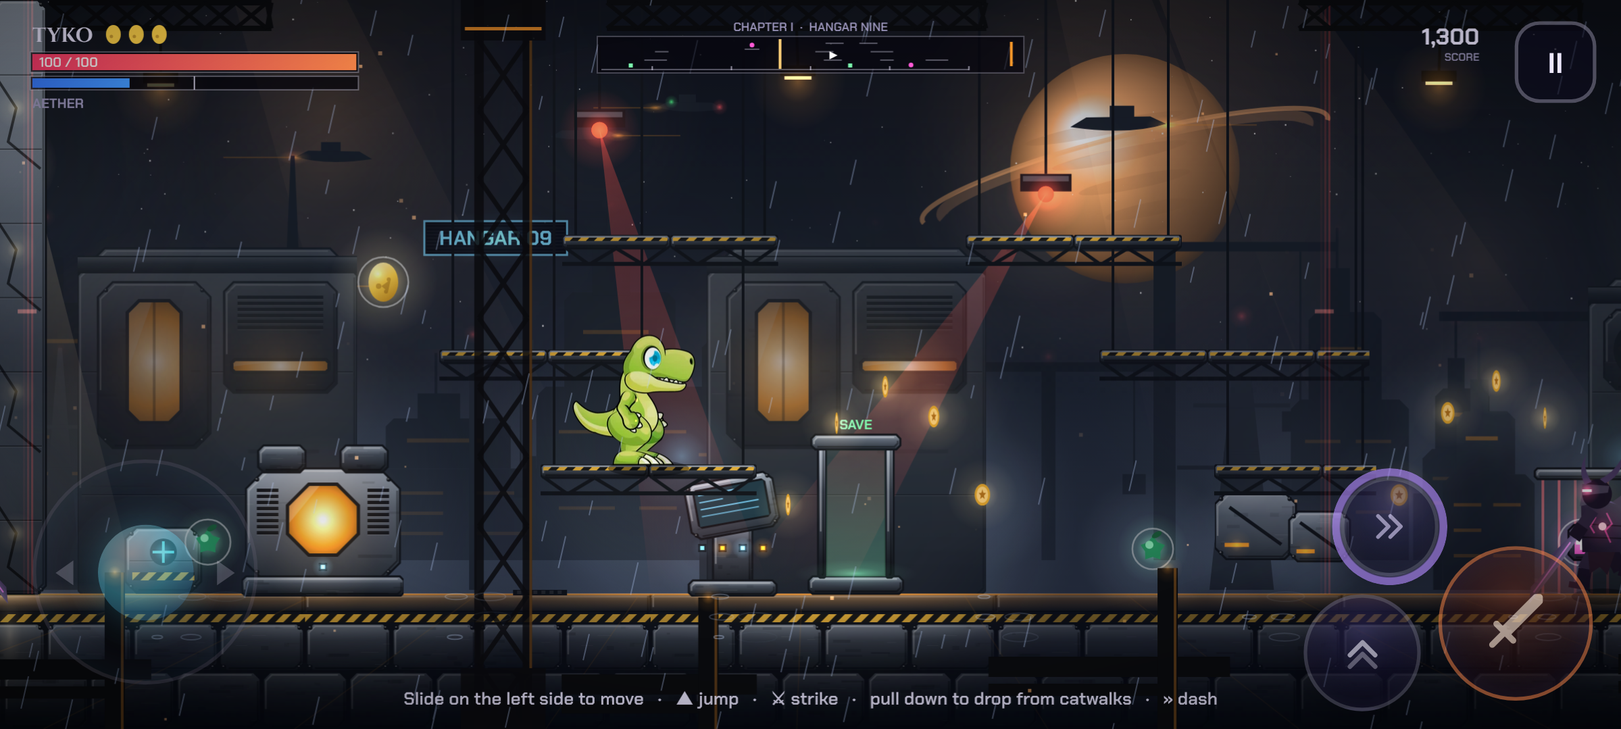
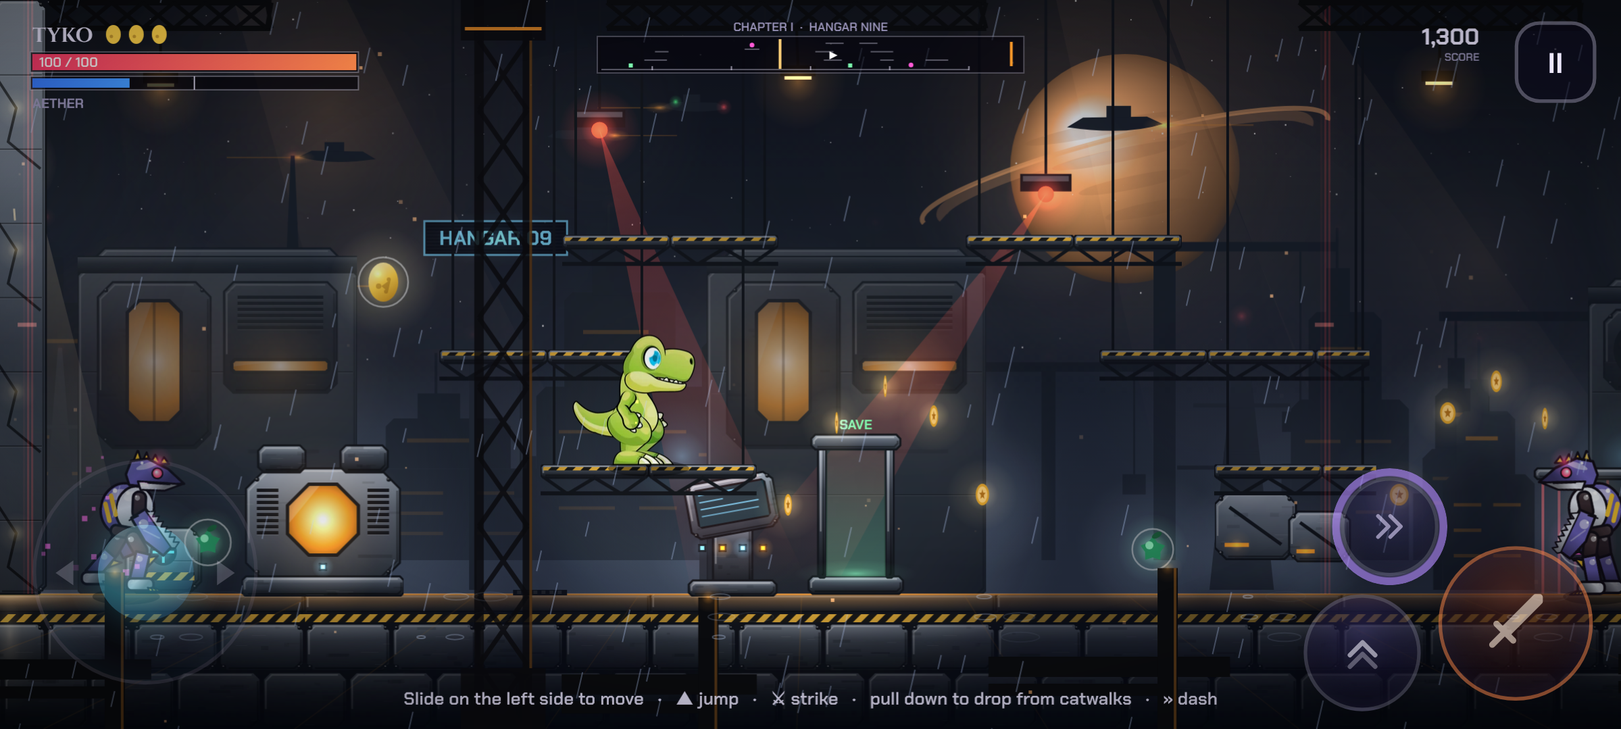
Aetherfall 1.6: bot-tested fixes and balance
- Enemies (incl. jet gunners) can no longer pass through or spawn behind closed gates
- Save stations don't heal during lockdowns; Continue keeps the right chapter score; pause restart refills lives
- Play again starts a fresh run; shrines can't be jumped over; shards before laser gates
- Player and Malakar kept clear of the touch buttons; gorilla wind-up pose fixed
- Balance from bot runs: tougher staggered Robo-Hounds, gentler early drones, Ch III-V waves reworked,
  Iron Warden ends Ch IV, Malakar 3600 HP with faster attacks, lower contact damage

Claude-Session: https://claude.ai/code/session_01X31XAwuRKUuyJhRdzeez9s

diff --git a/app/src/main/assets/index.html b/app/src/main/assets/index.html
@@ -170,13 +170,13 @@ const LV=[
  {name:'The Iron Armory',ch:'Chapter II',theme:'armory',len:7800,sky:['#0f1512','#212c26','#43574b'],planet:'#ffd08a',far:'#1c2620',mid:'#26332b',gnd:'#141b17',glow:'#ff8a3a',
   waves:[['g','d','d'],['h','h','b'],['d','d','g','g'],['b','g','d','g'],['b','b','d','d']]},
  {name:'Orbital Dock Aeris',ch:'Chapter III',theme:'station',len:8400,sky:['#0c1222','#203256','#5a78a6'],planet:'#cfeaff',far:'#2a3856',mid:'#354564',gnd:'#262c38',glow:'#ff9a2a',
-  waves:[['d','d','g'],['b','d','d'],['g','h','g','d','d'],['b','b','d'],['B','d','d']]},
+  waves:[['d','g','g'],['b','d','g'],['g','h','h','d'],['b','b','d'],['B','g','d']]},
  {name:'The Amber Foundry',ch:'Chapter IV',theme:'cargo',len:8400,sky:['#18120a','#3a2a16','#86643a'],planet:'#ffd27a',far:'#2a2013',mid:'#382a17',gnd:'#1c160e',glow:'#ffb347',
-  waves:[['c','g','g'],['b','c','d'],['g','g','c','c'],['b','b','c','d'],['c','c','h','h','b']]},
+  waves:[['c','g','g'],['b','c','d'],['g','h','h','c','c'],['b','b','c','d'],['c','c','h','h','B']]},
  {name:'Gates of the Null Citadel',ch:'Chapter V',theme:'citadel',len:8800,sky:['#07050f','#1c1238','#4e2f7c'],planet:'#c9a8ff',far:'#160c30',mid:'#201240',gnd:'#0c0718',glow:'#b48cff',
-  waves:[['c','c','d','d'],['b','b','h','h','c'],['d','d','d','c','c'],['b','b','b','c'],['B','c','c']]},
+  waves:[['c','c','d','d'],['b','h','h','h','c'],['d','d','d','c','c'],['b','b','b','c'],['B','c','c']]},
  {name:'Throne of the Rift',ch:'Chapter VI',theme:'core',len:7200,sky:['#060406','#1a0a0e','#4a140e'],planet:'#ff4a2a',far:'#140b0c',mid:'#1e1113',gnd:'#0d0909',glow:'#ff4a2a',
-  waves:[['c','b','d'],['h','h','c','c','b'],['B','d','d']],boss:true}
+  waves:[['c','b','d'],['h','h','c','c','b'],['B','h','h','d']],boss:true}
 ];
 LV.forEach(L=>{const n=L.waves.length,end=L.boss?L.len-2200:L.len-900;L.trig=L.waves.map((_,i)=>Math.round(900+(end-900)*i/Math.max(1,n-1)))});
 
@@ -227,11 +227,13 @@ const ETYPES={
  d:{w:70,h:70,hp:28,spd:0,dmg:8,score:150,fly:true},
  c:{w:80,h:160,hp:55,spd:0,dmg:9,score:250},
  B:{w:170,h:320,hp:420,spd:125,dmg:24,score:1500,heavy:true},
- h:{w:130,h:100,hp:30,spd:520,dmg:9,score:120}
+ h:{w:130,h:100,hp:45,spd:520,dmg:12,score:120}
 };
-function spawnEnemy(type,side){const T=ETYPES[type],x=side<0?cam-120:cam+W+120;
+function spawnEnemy(type,side){const T=ETYPES[type];let x=side<0?cam-120:cam+W+120;
+  for(const s of solidRects()){const gx=s.x+s.w/2;if(Math.sign(x-gx)!==Math.sign(pl.x-gx))x=gx+Math.sign(pl.x-gx)*(s.w/2+90)}
   const e={type,x,y:T.fly?520+Math.random()*130:GY,w:T.w,h:T.h,hp:T.hp*dm(),max:T.hp*dm(),vx:0,vy:0,face:-side,state:'walk',t:.6+Math.random()*.8,flash:0,seed:Math.random()*10,heavy:T.heavy,fly:T.fly,hy:0,score:T.score};
-  e.hy=e.y;if(type==='c'){e.x=side<0?cam+260:cam+W-RSAFE-60;e.y=GY;e.fade=1;e.t=1.2}
+  e.hy=e.y;if(type==='c'){e.x=side<0?cam+260:cam+W-RSAFE-60;e.y=GY;e.fade=1;e.t=1.2;
+    for(const g of solidRects()){const gx=g.x+g.w/2;if(Math.sign(e.x-gx)!==Math.sign(pl.x-gx))e.x=pl.x+(pl.x<gx?-1:1)*Math.max(200,Math.min(520,Math.abs(pl.x-gx)-80))}}
   en.push(e);burst(e.x,e.y-e.h/2,'#ff4fd8',14);if(type==='B'){showBanner('Iron Warden','Elite · jump its shockwaves',1.8);S.boom();shake=12}}
 function spawnWave(list){list.forEach((t,i)=>spawnQ.push({t:i*.55,type:t,side:i%2?-1:1}))}
 
@@ -282,7 +284,7 @@ function updPlayer(dt){const p=pl,L=LV[G.lv];
   const sup=geoLand(p,y0);
   if(sup!=null){if(!p.ground){if(p.vy>700){dust(p.x,sup);p.squash=1}p.landT=.15;if(p.slam)slamLand(p,sup)}p.y=sup;p.vy=0;p.ground=true;p.jumps=0}else p.ground=false;
   p.sup=surfaceBelow(p.x,p.y);
-  let mn=60,mx=L.len;if(lock){mn=cam+60;mx=cam+W-(touchy?RSAFE-40:60)}
+  let mn=60,mx=L.len;if(lock){mn=cam+60;mx=cam+W-(touchy?RSAFE+80:60)}
   p.x=Math.max(mn,Math.min(mx,p.x));
   p.run+=Math.abs(p.vx)*dt*.02;
   if(p.atk>0&&p.atk<.18){const reach=p.combo===3?240:180,box={x:p.face>0?p.x-10:p.x-reach+10,y:p.y-190,w:reach,h:190};
@@ -292,25 +294,26 @@ function updPlayer(dt){const p=pl,L=LV[G.lv];
 }
 const allTargets=()=>boss&&!boss.dead&&boss.state!=='enter'?en.concat([boss]):en;
 
+function gateClamp(e){for(const s of solidRects()){if(e.y<=s.y+4&&s.y>0)continue;const l=s.x-e.w/2,r=s.x+s.w+e.w/2;if(e.x>l&&e.x<r){e.x=e.x<s.x+s.w/2?l:r;e.vx=0}}}
 function updEnemy(e,dt){const dx=pl.x-e.x,ad=Math.abs(dx);e.flash-=dt;e.t-=dt;
   if(e.type==='d'){e.face=Math.sign(dx)||1;
     let tx=pl.x-e.face*440+Math.sin(lvT*1.3+e.seed)*90;const ty=e.hy+Math.sin(lvT*2.2+e.seed)*45;
     if(lock){if(pl.x-cam>W-RSAFE-300)tx=pl.x-440;tx=Math.max(cam+140,Math.min(cam+W-RSAFE,tx))}
-    e.vx+=(tx-e.x)*dt*2.4;e.vx*=Math.pow(.15,dt);e.x+=e.vx*dt;e.y+=(ty-e.y)*Math.min(1,dt*2);
-    if(e.t<=0){e.t=Math.max(1.3,2.3-G.lv*.15);const a=Math.atan2(pl.y-80-(e.y-35),pl.x-e.x),v=560+G.lv*30;
+    e.vx+=(tx-e.x)*dt*2.4;e.vx*=Math.pow(.15,dt);e.x+=e.vx*dt;gateClamp(e);e.y+=(ty-e.y)*Math.min(1,dt*2);
+    if(e.t<=0){e.t=Math.max(1.4,2.8-G.lv*.25);const a=Math.atan2(pl.y-80-(e.y-35),pl.x-e.x),v=560+G.lv*30;
       shots.push({x:e.x,y:e.y-35,vx:Math.cos(a)*v,vy:Math.sin(a)*v,r:15,dmg:ETYPES.d.dmg*dm(),life:3.2,col:'#ff8a3a'});S.shot()}
     return}
-  if(e.type==='c'){e.face=Math.sign(dx)||1;e.fade=Math.max(0,(e.fade||0)-dt*2);e.x+=e.vx*dt;e.vx*=Math.pow(.02,dt);
+  if(e.type==='c'){e.face=Math.sign(dx)||1;e.fade=Math.max(0,(e.fade||0)-dt*2);e.x+=e.vx*dt;gateClamp(e);e.vx*=Math.pow(.02,dt);
     if(ad<260&&e.t<.8&&!e.tp){e.tp=.35;burst(e.x,e.y-80,'#b48cff',18)}
-    if(e.tp){e.tp-=dt;if(e.tp<=0){e.tp=0;const side=pl.x-cam>W/2?-1:1;e.x=pl.x+side*(520+Math.random()*200);e.x=Math.max(cam+160,Math.min(cam+W-RSAFE-40,e.x));e.fade=1;e.t=1}}
+    if(e.tp){e.tp-=dt;if(e.tp<=0){e.tp=0;const side=pl.x-cam>W/2?-1:1;e.x=pl.x+side*(520+Math.random()*200);e.x=Math.max(cam+160,Math.min(cam+W-RSAFE-40,e.x));for(const g of solidRects()){const gx=g.x+g.w/2;if(Math.sign(e.x-gx)!==Math.sign(pl.x-gx))e.x=pl.x+(pl.x<gx?-1:1)*Math.min(520,Math.abs(pl.x-gx)-60);}gateClamp(e);e.fade=1;e.t=1}}
     else if(e.t<=0){e.t=Math.max(1.6,2.8-G.lv*.15);const a0=Math.atan2(pl.y-90-(e.y-120),dx);
       for(let k=-1;k<=1;k++){const a=a0+k*.22;shots.push({x:e.x+e.face*40,y:e.y-120,vx:Math.cos(a)*520,vy:Math.sin(a)*520,r:17,dmg:ETYPES.c.dmg*dm(),life:3,col:'#b48cff'})}S.shot()}
     return}
   if(e.type==='h'){if(e.state!=='leap')e.face=Math.sign(dx)||1;
-    if(e.state==='walk'){if(ad>280)e.vx+=(e.face*520*(1+G.lv*.04)-e.vx)*Math.min(1,dt*6);else{e.vx*=Math.pow(.02,dt);if(e.t<=0){e.state='wind';e.t=.34}}}
+    if(e.state==='walk'){if(ad>280)e.vx+=(e.face*520*(1+G.lv*.04)-e.vx)*Math.min(1,dt*6);else{e.vx*=Math.pow(.02,dt);if(e.t<=0){e.state='wind';e.t=.26+Math.random()*.16}}}
     else if(e.state==='wind'){e.vx*=Math.pow(.01,dt);if(e.t<=0){e.state='leap';e.t=.36;e.vx=e.face*1150;e.hitP=false;sfx(420,.18,'sawtooth',.04,300)}}
-    else if(e.state==='leap'){if(!e.hitP&&overlap(ebox(e),pbox())){e.hitP=true;hurtPlayer(ETYPES.h.dmg*dm(),e.face*520)}e.vx*=Math.pow(.25,dt);if(e.t<=0){e.state='walk';e.t=.8+Math.random()*.7}}
-    e.x+=e.vx*dt;if(lock&&touchy){const lim=cam+W-RSAFE+40;if(e.x<lim)e.in=1;if(e.in&&e.x>lim){e.x=lim;if(e.vx>0)e.vx=0}}return}
+    else if(e.state==='leap'){if(!e.hitP&&overlap(ebox(e),pbox())){e.hitP=true;hurtPlayer(ETYPES.h.dmg*dm(),e.face*520)}e.vx*=Math.pow(.25,dt);if(e.t<=0){e.state='walk';e.t=.5+Math.random()*.4}}
+    e.x+=e.vx*dt;gateClamp(e);if(lock&&touchy){const lim=cam+W-RSAFE+40;if(e.x<lim)e.in=1;if(e.in&&e.x>lim){e.x=lim;if(e.vx>0)e.vx=0}}return}
   const T=ETYPES[e.type],hv=e.type==='b'||e.type==='B',range=e.type==='B'?240:hv?200:130;
   if(e.state==='walk'){e.face=Math.sign(dx)||1;
     if(ad>range)e.vx+=(e.face*T.spd*(1+G.lv*.05)-e.vx)*Math.min(1,dt*5);else{e.vx*=Math.pow(.01,dt);if(e.t<=0){e.state='wind';e.t=e.type==='B'?.75:hv?.62:.42}}}
@@ -319,7 +322,7 @@ function updEnemy(e,dt){const dx=pl.x-e.x,ad=Math.abs(dx);e.flash-=dt;e.t-=dt;
   else if(e.state==='swing'){if(!e.hitP){const reach=e.type==='B'?270:hv?230:150,box={x:e.face>0?e.x:e.x-reach,y:e.y-e.h,w:reach,h:e.h};
       if(overlap(box,pbox())){e.hitP=true;hurtPlayer(T.dmg*dm(),e.face*(hv?900:450))}}
     if(e.t<=0){e.state='walk';e.t=(e.type==='B'?1.6:hv?1.3:.8)+Math.random()*.7}}
-  e.x+=e.vx*dt;if(e.state!=='walk')e.vx*=Math.pow(.05,dt);
+  e.x+=e.vx*dt;if(e.state!=='walk')e.vx*=Math.pow(.05,dt);gateClamp(e);
   /* once on screen during a wave, ground enemies stay out of the strip under the touch buttons */
   if(lock&&touchy){const lim=cam+W-RSAFE+40;if(e.x<lim)e.in=1;if(e.in&&e.x>lim){e.x=lim;if(e.vx>0)e.vx=0}}
 }
@@ -329,12 +332,12 @@ function updEnemy(e,dt){const dx=pl.x-e.x,ad=Math.abs(dx);e.flash-=dt;e.t-=dt;
 /* ---------- boss: Malakar, the Void Sovereign ---------- */
 const arenaCam=()=>LV[G.lv].len-W+120;
 function startBoss(){lock=true;S.boom();shake=16;const ac=arenaCam();
-  boss={isBoss:true,x:ac+W-RSAFE-60,y:GY,w:190,h:330,hp:2400,max:2400,face:-1,state:'enter',t:2.6,flash:0,vx:0,phase:1,dy:-800,hov:0,last:'',fire:0,left:0};
+  boss={isBoss:true,x:ac+W-RSAFE-160,y:GY,w:190,h:330,hp:3600,max:3600,face:-1,state:'enter',t:2.6,flash:0,vx:0,phase:1,dy:-800,hov:0,last:'',fire:0,left:0};
   showBanner('Malakar','The Void Sovereign',2.6)}
-function bclamp(x){return Math.max(cam+220,Math.min(cam+W-RSAFE-20,x))}
+function bclamp(x){return Math.max(cam+220,Math.min(cam+W-RSAFE-110,x))}
 function chooseAttack(b){let o=['dash','barrage','rift'];if(b.phase>=2)o.push('beam','beam','summon');
   o=o.filter(a=>a!==b.last);let a=o[Math.floor(Math.random()*o.length)];if(a==='summon'&&en.length>=2)a='barrage';b.last=a;
-  const k=b.phase===3?.7:1;
+  const k=b.phase===3?.6:.85;
   if(a==='dash'){b.state='dashWind';b.t=.7*k;b.dash2=false;S.warn()}
   else if(a==='barrage'){b.state='barrage';b.left=b.phase>1?16:10;b.fire=0;b.spin=Math.random()*6}
   else if(a==='rift'){b.state='cast';b.t=.6;const xs=[pl.x,pl.x-300,pl.x+300];if(b.phase===3)xs.push(pl.x-600,pl.x+600);
@@ -348,18 +351,18 @@ function updBoss(b,dt){b.flash-=dt;b.t-=dt;
   if(b.state==='enter'){b.dy+=(0-b.dy)*Math.min(1,dt*2.2);if(b.t<=0){b.state='idle';b.t=1;b.dy=0}return}
   b.hov=Math.sin(lvT*2)*16;
   if(b.state!=='dash')b.face=Math.sign(pl.x-b.x)||-1;
-  const k=b.phase===3?.7:1;
+  const k=b.phase===3?.6:.85;
   if(b.state==='idle'){let side=b.x>pl.x?1:-1,tx=bclamp(pl.x+side*520);if(Math.abs(tx-pl.x)<320)tx=bclamp(pl.x-side*520);b.x+=(tx-b.x)*Math.min(1,dt*1.3);if(b.t<=0)chooseAttack(b)}
   else if(b.state==='dashWind'){if(Math.random()<.5)burst(b.x,b.y-160,'#ff3d6e',2,300);if(b.t<=0){b.state='dash';b.t=.95;b.vx=b.face*2000;S.boom();b.hitP=false}}
   else if(b.state==='dash'){b.x+=b.vx*dt;parts.push({x:b.x,y:b.y-150+(Math.random()-.5)*200,vx:-b.vx*.1,vy:0,life:.3,max:.3,col:'#ff3d6e',sz:10,g:0});
-    if(!b.hitP&&overlap(ebox(b),pbox())){b.hitP=true;hurtPlayer(22,b.face*1000)}
-    if(b.t<=0||b.x<cam+180||b.x>cam+W-180){b.x=bclamp(b.x);shake=10;
+    if(!b.hitP&&overlap(ebox(b),pbox())){b.hitP=true;hurtPlayer(28,b.face*1000)}
+    if(b.t<=0||b.x<cam+180||b.x>cam+W-RSAFE-110){b.x=bclamp(b.x);shake=10;
       if(b.phase===3&&!b.dash2){b.dash2=true;b.face*=-1;b.state='dashWind';b.t=.35}else{b.state='idle';b.t=1.1*k}}}
   else if(b.state==='barrage'){b.fire-=dt;if(b.fire<=0){b.fire=.1;b.left--;const a0=Math.atan2(pl.y-90-(b.y-260),pl.x-b.x);
-      const a=a0+Math.sin(b.spin+b.left*.7)*.55;shots.push({x:b.x+b.face*60,y:b.y-260+b.hov,vx:Math.cos(a)*620,vy:Math.sin(a)*620,r:20,dmg:11,life:3.5,col:'#ff3d6e'});S.shot();
+      const a=a0+Math.sin(b.spin+b.left*.7)*.55;shots.push({x:b.x+b.face*60,y:b.y-260+b.hov,vx:Math.cos(a)*620,vy:Math.sin(a)*620,r:20,dmg:14,life:3.5,col:'#ff3d6e'});S.shot();
       if(b.left<=0){b.state='idle';b.t=1.2*k}}}
   else if(b.state==='cast'){if(b.t<=0){b.state='idle';b.t=1*k}}
-  if(b.state!=='dash'&&b.state!=='idle'&&overlap(ebox(b),pbox()))hurtPlayer(8,(pl.x<b.x?-1:1)*800);
+  if(b.state!=='dash'&&b.state!=='idle'&&overlap(ebox(b),pbox()))hurtPlayer(5,(pl.x<b.x?-1:1)*800);
 }
 function killBoss(){const b=boss;b.dead=true;bossDone=true;G.score+=10000;shake=30;S.boom();hz=[];shots=shots.filter(s=>s.friend);
   en.forEach(e=>{e.dead=true;burst(e.x,e.y-e.h/2,'#ff4fd8',20)});en=[];spawnQ=[];
@@ -380,8 +383,8 @@ function updShots(dt){const ab=atkBox();
   shots=shots.filter(s=>s.life>0)}
 function updHz(dt){for(const h of hz){if(h.kind==='quake'){updQuake(h,dt);continue}if(h.t>0){h.t-=dt;if(h.t<=0){S.boom();shake=Math.max(shake,h.kind==='beam'?14:9);if(h.kind==='pillar')burst(h.x,GY,'#ff3d6e',24,900)}continue}
     h.act-=dt;if(h.hitP)continue;const pb=pbox();
-    if(h.kind==='pillar'&&Math.abs(pl.x-h.x)<h.w/2+30){h.hitP=true;hurtPlayer(18,(pl.x<h.x?-1:1)*600)}
-    if(h.kind==='beam'&&pb.y<h.y+38&&pb.y+pb.h>h.y-38){h.hitP=true;hurtPlayer(20,(pl.x<cam+W/2?-1:1)*500)}}
+    if(h.kind==='pillar'&&Math.abs(pl.x-h.x)<h.w/2+30){h.hitP=true;hurtPlayer(22,(pl.x<h.x?-1:1)*600)}
+    if(h.kind==='beam'&&pb.y<h.y+38&&pb.y+pb.h>h.y-38){h.hitP=true;hurtPlayer(26,(pl.x<cam+W/2?-1:1)*500)}}
   hz=hz.filter(h=>h.t>0||h.act>0)}
 function updParts(dt){for(const r of rings)r.life-=dt;rings=rings.filter(r=>r.life>0);for(const q of parts){q.life-=dt;q.vy+=q.g*dt;q.x+=q.vx*dt;q.y+=q.vy*dt;q.vx*=Math.pow(.3,dt)}parts=parts.filter(q=>q.life>0);if(parts.length>600)parts.splice(0,parts.length-600);
   for(const t of texts){t.life-=dt;t.y-=90*dt}texts=texts.filter(t=>t.life>0)}
@@ -438,9 +441,9 @@ function levelComplete(){G.state='card';G.score+=Math.round(pl.hp*20);G.best=Mat
 function gameOver(){G.state='over';if(pl){pl.dead=1;pl.deadT=0;pl.vx=0}G.best=Math.max(G.best,G.score);saveProg();padShow(false);clearInput();setTimeout(()=>showCard({ey:'Tyko is down',h:'The Light Fades',
   b:`<p><span class="who">LYRA:</span> "Not yet, little one. Get up. I won't let the dark have you."</p>`,btns:[...(G.ck&&G.ck.lv===G.lv?[['Continue from save station',restoreCk]]:[]),['Retry chapter',()=>{G.score=G.chapterStart;G.lives=3;G.ck=null;startLevel(G.lv)},1],['Title',toTitle,1]]}),900)}
 function victory(){G.state='card';padShow(false);clearInput();G.score+=Math.round(pl.hp*50);unlocked=6;saveProg();G.best=Math.max(G.best,G.score);
-  story(STORY.ending,0,()=>showCard({ey:'The saga is complete',h:'Ithra Is Free',big:0,b:`<p>Final score <b>${G.score.toLocaleString()}</b></p><p>Thank you for playing Aetherfall.</p>`,btns:[['Play again',()=>{G.score=0;G.lives=3;briefing(0)}],['Title',toTitle,1]]}))}
+  story(STORY.ending,0,()=>showCard({ey:'The saga is complete',h:'Ithra Is Free',big:0,b:`<p>Final score <b>${G.score.toLocaleString()}</b></p><p>Thank you for playing Aetherfall.</p>`,btns:[['Play again',()=>{G.score=0;G.lives=3;G.ck=null;META={ab:{},tanks:{}};saveMeta();briefing(0)}],['Title',toTitle,1]]}))}
 function togglePause(){if(G.state!=='play')return;G.paused=!G.paused;clearInput();
-  if(G.paused){padShow(false);showCard({ey:LV[G.lv].ch,h:'Paused',extra:abilitiesHTML(),btns:[['Resume',togglePause],['Restart chapter',()=>{G.score=G.chapterStart;startLevel(G.lv)},1],['Quit to title',toTitle,1]]})}
+  if(G.paused){padShow(false);showCard({ey:LV[G.lv].ch,h:'Paused',extra:abilitiesHTML(),btns:[['Resume',togglePause],['Restart chapter',()=>{G.score=G.chapterStart;G.lives=3;G.ck=null;startLevel(G.lv)},1],['Quit to title',toTitle,1]]})}
   else{hideCard();padShow(true)}}
 document.getElementById('pauseBtn').addEventListener('pointerdown',e=>{e.preventDefault();togglePause()});
 function goFull(){try{const d=document.documentElement;if(touchy&&!document.fullscreenElement&&d.requestFullscreen)d.requestFullscreen().then(()=>{try{screen.orientation.lock('landscape').catch(()=>{})}catch(_){}}).catch(()=>{})}catch(e){}}
@@ -982,7 +985,7 @@ function buildGeo(L,i){const r=rng(L.len*41+i*7+3),g={plats:[],gates:[],cages:[]
   let x=760;while(x<L.len-600){if(clear(x)){const tiers=1+Math.floor(r()*3);let px=x;
       for(let t=0;t<tiers;t++){const w=240+Math.floor(r()*3)*80;g.plats.push({x:Math.round(px),y:GY-190-t*170,w});px+=(r()<.5?-1:1)*(130+r()*70)}}
     x+=700+r()*600}
-  if(i<5){g.shrine={x:sx,ab:ABIL[i].id};g.gates.push(mkGate(ABIL[i].gate,gx))}
+  if(i<5){g.shrine={x:sx,ab:ABIL[i].id};g.gates.push(mkGate(ABIL[i].gate,gx));if(ABIL[i].gate==='laser')picks.push({x:gx-320,y:GY-80,type:'shard',float:1},{x:gx-420,y:GY-80,type:'shard',float:1})}
   TD.forEach((kind,k)=>{const id=i+'-'+k,t=tx[k];if(META.tanks[id])return;
     if(kind==='high'){const py=GY-410;g.plats.push({x:t-130,y:py,w:260,iso:1});picks.push({x:t,y:py-70,type:'tank',id,float:1})}
     else{const c={x:t,kind,hp:kind==='plasma'?3:1,broken:0};g.cages.push(c);picks.push({x:t,y:GY-80,type:'tank',id,float:1,cage:c})}});
@@ -1009,8 +1012,8 @@ function updGeo(dt){const p=pl;hintT-=dt;if(!p||p.dead)return;p.maxX=Math.max(p.
   if(p.dashT>0){const b={x:p.x-80,y:p.y-170,w:160,h:170};for(const g of GEO.gates)if(!g.broken&&g.kind==='crack'&&overlap(b,{x:g.x-g.w/2,y:g.top,w:g.w,h:GY-g.top}))breakGate(g);
     for(const c of GEO.cages)if(!c.broken&&c.kind==='crack'&&Math.abs(c.x-p.x)<110&&p.y>GY-200)breakCage(c)}
   for(const s of shots)if(s.friend&&s.wave){for(const g of GEO.gates)if(!g.broken&&g.kind==='laser'&&Math.abs(s.x-g.x)<s.r+40)breakGate(g);for(const c of GEO.cages)if(!c.broken&&c.kind==='laser'&&Math.abs(s.x-c.x)<s.r+60)breakCage(c)}
-  const sh=GEO.shrine;if(sh&&!hasAb(sh.ab)&&Math.abs(p.x-sh.x)<80&&p.y>GY-200)grantAbility(sh.ab);
-  for(const st of GEO.stations){st.t-=dt;if(st.t<=0&&Math.abs(p.x-st.x)<70&&p.ground&&p.y>GY-4)useStation(st)}}
+  const sh=GEO.shrine;if(sh&&!hasAb(sh.ab)&&Math.abs(p.x-sh.x)<90)grantAbility(sh.ab);
+  for(const st of GEO.stations){st.t-=dt;if(!lock&&st.t<=0&&Math.abs(p.x-st.x)<70&&p.ground&&p.y>GY-4)useStation(st)}}
 function clawGeo(box){for(const g of GEO.gates)if(!g.broken&&g.kind==='crystal'&&overlap(box,{x:g.x-g.w/2,y:0,w:g.w,h:GY})){if(hasAb('plasma')){g.hp--;burst(g.x,box.y+80,'#ff5ad8',10,500);S.hit();if(g.hp<=0)breakGate(g)}else if(hintT<=0){hintT=2.5;ftext(g.x,GY-300,GATEHINT.crystal,'#ffd27a')}}
   for(const c of GEO.cages)if(!c.broken&&c.kind==='plasma'&&overlap(box,{x:c.x-70,y:GY-170,w:140,h:170})){if(hasAb('plasma')){c.hp--;S.hit();burst(c.x,GY-90,'#ff5ad8',8,400);if(c.hp<=0)breakCage(c)}else if(hintT<=0){hintT=2.5;ftext(c.x,GY-230,'Void crystal. Claws bounce off it.','#ffd27a')}}}
 function slamAt(x){for(const g of GEO.gates)if(!g.broken&&g.kind==='blast'&&Math.abs(x-g.plate)<170)breakGate(g);for(const c of GEO.cages)if(!c.broken&&c.kind==='slam'&&Math.abs(x-c.x)<220)breakCage(c)}
@@ -1021,9 +1024,9 @@ function slamLand(p,y){p.slam=0;shake=Math.max(shake,14);S.boom();buzz(35);ring(
 function grantAbility(id){const A=ABIL.find(a=>a.id===id);META.ab[id]=1;saveMeta();hitStop=.45;shake=10;buzz([40,30,80]);
   [523,659,784,1047].forEach((f,i)=>setTimeout(()=>sfx(f,.35,'triangle',.07,0),i*120));
   for(let i=0;i<3;i++)ring(pl.x,pl.y-100,A.col,180+i*90);burst(pl.x,pl.y-100,A.col,40,900);showBanner(A.name+' acquired',A.how,4.2);padAbilities()}
-function useStation(st){st.t=6;const p=pl;p.hp=p.max;p.en=Math.max(p.en,50);G.ck={lv:G.lv,x:st.x,waveI,score:G.score,broken:GEO.gates.map(g=>g.broken),cages:GEO.cages.map(c=>c.broken)};
+function useStation(st){st.t=6;const p=pl;p.hp=p.max;p.en=Math.max(p.en,50);G.ck={lv:G.lv,x:st.x,waveI,score:G.score,cs:G.chapterStart,broken:GEO.gates.map(g=>g.broken),cages:GEO.cages.map(c=>c.broken)};
   sfx(660,.3,'sine',.06,330);setTimeout(()=>sfx(990,.3,'sine',.06,0),150);ring(st.x,GY-110,'#7dffb0',200);showBanner('Progress saved','Health restored',1.6)}
-function restoreCk(){const ck=G.ck;G.lives=3;startLevel(ck.lv);G.score=ck.score;waveI=ck.waveI;pl.x=ck.x+80;pl.maxX=ck.x;
+function restoreCk(){const ck=G.ck;G.lives=3;startLevel(ck.lv);G.score=ck.score;G.chapterStart=ck.cs!=null?ck.cs:G.chapterStart;waveI=ck.waveI;pl.x=ck.x+80;pl.maxX=ck.x;
   GEO.gates.forEach((g,i)=>g.broken=ck.broken[i]||g.broken);GEO.cages.forEach((c,i)=>c.broken=ck.cages[i]||c.broken);
   cam=Math.max(0,Math.min(arenaCam(),pl.x-W*.38));showBanner('Save station',LV[ck.lv].name,1.8)}
 function padAbilities(){const d=document.querySelector('.act.dsh'),s=document.querySelector('.act.sp');if(d)d.hidden=!hasAb('dash');if(s)s.hidden=!hasAb('roar')}
@@ -1196,10 +1199,10 @@ function drawClaw(e){const sc=.74;shadow(e.x,50);X.save();X.translate(e.x,e.y);X
   hitFlash(e,e.x,e.y-110,100);bar(e,e.y-262)}
 function drawGorilla(e){const sc=.72;shadow(e.x,84);X.save();X.translate(e.x,e.y);X.scale(e.face*sc,sc);
   const mv=e.state==='walk'?Math.min(1,Math.abs(e.vx)/120):0,sw=Math.sin(lvT*6+e.seed)*.45*mv,hip=-134+(e.state==='wind'?12:e.state==='swing'?18:0),lean=e.state==='wind'?.05:.32;
-  let ua=.12+sw*.5,fa=.2;if(e.state==='wind'){ua=2.9;fa=.3}else if(e.state==='swing'){ua=-.55;fa=-.45}
+  let ua=.12+sw*.5,fa=.2;if(e.state==='wind'){ua=3.05;fa=.15}else if(e.state==='swing'){ua=-.55;fa=-.45}
   const leg=(a1,a2,d)=>{X.save();X.translate(d?-26:26,hip);X.rotate(a1);rp('go_thigh',0,0,0,d);X.translate(0,52);X.rotate(a2);rp('go_shin',0,0,0,d);X.translate(0,58);X.rotate(-(a1+a2));rp('go_foot',0,0,0,d);X.restore()};
   const arm=(d,u,f)=>{X.save();X.translate(0,hip);X.rotate(lean);X.translate(d?-34:54,-124);X.rotate(u-lean);rp('go_uarm',0,0,0,d);X.translate(0,78);X.rotate(f);rp('go_farm',0,0,0,d);X.restore()};
-  arm(1,e.state==='walk'?.12-sw*.5:ua,fa);leg(-sw,.2+Math.max(0,sw)*.8,1);
+  arm(1,e.state==='walk'?.12-sw*.5:e.state==='wind'?2.55:ua,e.state==='wind'?.55:fa);leg(-sw,.2+Math.max(0,sw)*.8,1);
   X.save();X.translate(0,hip);X.rotate(lean);rp('go_torso',0,0,0,0);rp('go_head',46,-150,0,0);X.restore();
   leg(sw,.2+Math.max(0,-sw)*.8,0);arm(0,ua,fa);X.restore();
   glow(e.x+e.face*70,e.y-262,26,'#ff3a2a',.7);if(e.state==='wind'){glow(e.x,e.y-300,90,'#ff3a2a',.4+.3*Math.sin(lvT*30));warnMark(e,e.y-330)}

diff --git a/web/p2.js b/web/p2.js
@@ -59,13 +59,13 @@ const LV=[
  {name:'The Iron Armory',ch:'Chapter II',theme:'armory',len:7800,sky:['#0f1512','#212c26','#43574b'],planet:'#ffd08a',far:'#1c2620',mid:'#26332b',gnd:'#141b17',glow:'#ff8a3a',
   waves:[['g','d','d'],['h','h','b'],['d','d','g','g'],['b','g','d','g'],['b','b','d','d']]},
  {name:'Orbital Dock Aeris',ch:'Chapter III',theme:'station',len:8400,sky:['#0c1222','#203256','#5a78a6'],planet:'#cfeaff',far:'#2a3856',mid:'#354564',gnd:'#262c38',glow:'#ff9a2a',
-  waves:[['d','d','g'],['b','d','d'],['g','h','g','d','d'],['b','b','d'],['B','d','d']]},
+  waves:[['d','g','g'],['b','d','g'],['g','h','h','d'],['b','b','d'],['B','g','d']]},
  {name:'The Amber Foundry',ch:'Chapter IV',theme:'cargo',len:8400,sky:['#18120a','#3a2a16','#86643a'],planet:'#ffd27a',far:'#2a2013',mid:'#382a17',gnd:'#1c160e',glow:'#ffb347',
-  waves:[['c','g','g'],['b','c','d'],['g','g','c','c'],['b','b','c','d'],['c','c','h','h','b']]},
+  waves:[['c','g','g'],['b','c','d'],['g','h','h','c','c'],['b','b','c','d'],['c','c','h','h','B']]},
  {name:'Gates of the Null Citadel',ch:'Chapter V',theme:'citadel',len:8800,sky:['#07050f','#1c1238','#4e2f7c'],planet:'#c9a8ff',far:'#160c30',mid:'#201240',gnd:'#0c0718',glow:'#b48cff',
-  waves:[['c','c','d','d'],['b','b','h','h','c'],['d','d','d','c','c'],['b','b','b','c'],['B','c','c']]},
+  waves:[['c','c','d','d'],['b','h','h','h','c'],['d','d','d','c','c'],['b','b','b','c'],['B','c','c']]},
  {name:'Throne of the Rift',ch:'Chapter VI',theme:'core',len:7200,sky:['#060406','#1a0a0e','#4a140e'],planet:'#ff4a2a',far:'#140b0c',mid:'#1e1113',gnd:'#0d0909',glow:'#ff4a2a',
-  waves:[['c','b','d'],['h','h','c','c','b'],['B','d','d']],boss:true}
+  waves:[['c','b','d'],['h','h','c','c','b'],['B','h','h','d']],boss:true}
 ];
 LV.forEach(L=>{const n=L.waves.length,end=L.boss?L.len-2200:L.len-900;L.trig=L.waves.map((_,i)=>Math.round(900+(end-900)*i/Math.max(1,n-1)))});
 
@@ -116,11 +116,13 @@ const ETYPES={
  d:{w:70,h:70,hp:28,spd:0,dmg:8,score:150,fly:true},
  c:{w:80,h:160,hp:55,spd:0,dmg:9,score:250},
  B:{w:170,h:320,hp:420,spd:125,dmg:24,score:1500,heavy:true},
- h:{w:130,h:100,hp:30,spd:520,dmg:9,score:120}
+ h:{w:130,h:100,hp:45,spd:520,dmg:12,score:120}
 };
-function spawnEnemy(type,side){const T=ETYPES[type],x=side<0?cam-120:cam+W+120;
+function spawnEnemy(type,side){const T=ETYPES[type];let x=side<0?cam-120:cam+W+120;
+  for(const s of solidRects()){const gx=s.x+s.w/2;if(Math.sign(x-gx)!==Math.sign(pl.x-gx))x=gx+Math.sign(pl.x-gx)*(s.w/2+90)}
   const e={type,x,y:T.fly?520+Math.random()*130:GY,w:T.w,h:T.h,hp:T.hp*dm(),max:T.hp*dm(),vx:0,vy:0,face:-side,state:'walk',t:.6+Math.random()*.8,flash:0,seed:Math.random()*10,heavy:T.heavy,fly:T.fly,hy:0,score:T.score};
-  e.hy=e.y;if(type==='c'){e.x=side<0?cam+260:cam+W-RSAFE-60;e.y=GY;e.fade=1;e.t=1.2}
+  e.hy=e.y;if(type==='c'){e.x=side<0?cam+260:cam+W-RSAFE-60;e.y=GY;e.fade=1;e.t=1.2;
+    for(const g of solidRects()){const gx=g.x+g.w/2;if(Math.sign(e.x-gx)!==Math.sign(pl.x-gx))e.x=pl.x+(pl.x<gx?-1:1)*Math.max(200,Math.min(520,Math.abs(pl.x-gx)-80))}}
   en.push(e);burst(e.x,e.y-e.h/2,'#ff4fd8',14);if(type==='B'){showBanner('Iron Warden','Elite · jump its shockwaves',1.8);S.boom();shake=12}}
 function spawnWave(list){list.forEach((t,i)=>spawnQ.push({t:i*.55,type:t,side:i%2?-1:1}))}
 
@@ -171,7 +173,7 @@ function updPlayer(dt){const p=pl,L=LV[G.lv];
   const sup=geoLand(p,y0);
   if(sup!=null){if(!p.ground){if(p.vy>700){dust(p.x,sup);p.squash=1}p.landT=.15;if(p.slam)slamLand(p,sup)}p.y=sup;p.vy=0;p.ground=true;p.jumps=0}else p.ground=false;
   p.sup=surfaceBelow(p.x,p.y);
-  let mn=60,mx=L.len;if(lock){mn=cam+60;mx=cam+W-(touchy?RSAFE-40:60)}
+  let mn=60,mx=L.len;if(lock){mn=cam+60;mx=cam+W-(touchy?RSAFE+80:60)}
   p.x=Math.max(mn,Math.min(mx,p.x));
   p.run+=Math.abs(p.vx)*dt*.02;
   if(p.atk>0&&p.atk<.18){const reach=p.combo===3?240:180,box={x:p.face>0?p.x-10:p.x-reach+10,y:p.y-190,w:reach,h:190};
@@ -181,25 +183,26 @@ function updPlayer(dt){const p=pl,L=LV[G.lv];
 }
 const allTargets=()=>boss&&!boss.dead&&boss.state!=='enter'?en.concat([boss]):en;
 
+function gateClamp(e){for(const s of solidRects()){if(e.y<=s.y+4&&s.y>0)continue;const l=s.x-e.w/2,r=s.x+s.w+e.w/2;if(e.x>l&&e.x<r){e.x=e.x<s.x+s.w/2?l:r;e.vx=0}}}
 function updEnemy(e,dt){const dx=pl.x-e.x,ad=Math.abs(dx);e.flash-=dt;e.t-=dt;
   if(e.type==='d'){e.face=Math.sign(dx)||1;
     let tx=pl.x-e.face*440+Math.sin(lvT*1.3+e.seed)*90;const ty=e.hy+Math.sin(lvT*2.2+e.seed)*45;
     if(lock){if(pl.x-cam>W-RSAFE-300)tx=pl.x-440;tx=Math.max(cam+140,Math.min(cam+W-RSAFE,tx))}
-    e.vx+=(tx-e.x)*dt*2.4;e.vx*=Math.pow(.15,dt);e.x+=e.vx*dt;e.y+=(ty-e.y)*Math.min(1,dt*2);
-    if(e.t<=0){e.t=Math.max(1.3,2.3-G.lv*.15);const a=Math.atan2(pl.y-80-(e.y-35),pl.x-e.x),v=560+G.lv*30;
+    e.vx+=(tx-e.x)*dt*2.4;e.vx*=Math.pow(.15,dt);e.x+=e.vx*dt;gateClamp(e);e.y+=(ty-e.y)*Math.min(1,dt*2);
+    if(e.t<=0){e.t=Math.max(1.4,2.8-G.lv*.25);const a=Math.atan2(pl.y-80-(e.y-35),pl.x-e.x),v=560+G.lv*30;
       shots.push({x:e.x,y:e.y-35,vx:Math.cos(a)*v,vy:Math.sin(a)*v,r:15,dmg:ETYPES.d.dmg*dm(),life:3.2,col:'#ff8a3a'});S.shot()}
     return}
-  if(e.type==='c'){e.face=Math.sign(dx)||1;e.fade=Math.max(0,(e.fade||0)-dt*2);e.x+=e.vx*dt;e.vx*=Math.pow(.02,dt);
+  if(e.type==='c'){e.face=Math.sign(dx)||1;e.fade=Math.max(0,(e.fade||0)-dt*2);e.x+=e.vx*dt;gateClamp(e);e.vx*=Math.pow(.02,dt);
     if(ad<260&&e.t<.8&&!e.tp){e.tp=.35;burst(e.x,e.y-80,'#b48cff',18)}
-    if(e.tp){e.tp-=dt;if(e.tp<=0){e.tp=0;const side=pl.x-cam>W/2?-1:1;e.x=pl.x+side*(520+Math.random()*200);e.x=Math.max(cam+160,Math.min(cam+W-RSAFE-40,e.x));e.fade=1;e.t=1}}
+    if(e.tp){e.tp-=dt;if(e.tp<=0){e.tp=0;const side=pl.x-cam>W/2?-1:1;e.x=pl.x+side*(520+Math.random()*200);e.x=Math.max(cam+160,Math.min(cam+W-RSAFE-40,e.x));for(const g of solidRects()){const gx=g.x+g.w/2;if(Math.sign(e.x-gx)!==Math.sign(pl.x-gx))e.x=pl.x+(pl.x<gx?-1:1)*Math.min(520,Math.abs(pl.x-gx)-60);}gateClamp(e);e.fade=1;e.t=1}}
     else if(e.t<=0){e.t=Math.max(1.6,2.8-G.lv*.15);const a0=Math.atan2(pl.y-90-(e.y-120),dx);
       for(let k=-1;k<=1;k++){const a=a0+k*.22;shots.push({x:e.x+e.face*40,y:e.y-120,vx:Math.cos(a)*520,vy:Math.sin(a)*520,r:17,dmg:ETYPES.c.dmg*dm(),life:3,col:'#b48cff'})}S.shot()}
     return}
   if(e.type==='h'){if(e.state!=='leap')e.face=Math.sign(dx)||1;
-    if(e.state==='walk'){if(ad>280)e.vx+=(e.face*520*(1+G.lv*.04)-e.vx)*Math.min(1,dt*6);else{e.vx*=Math.pow(.02,dt);if(e.t<=0){e.state='wind';e.t=.34}}}
+    if(e.state==='walk'){if(ad>280)e.vx+=(e.face*520*(1+G.lv*.04)-e.vx)*Math.min(1,dt*6);else{e.vx*=Math.pow(.02,dt);if(e.t<=0){e.state='wind';e.t=.26+Math.random()*.16}}}
     else if(e.state==='wind'){e.vx*=Math.pow(.01,dt);if(e.t<=0){e.state='leap';e.t=.36;e.vx=e.face*1150;e.hitP=false;sfx(420,.18,'sawtooth',.04,300)}}
-    else if(e.state==='leap'){if(!e.hitP&&overlap(ebox(e),pbox())){e.hitP=true;hurtPlayer(ETYPES.h.dmg*dm(),e.face*520)}e.vx*=Math.pow(.25,dt);if(e.t<=0){e.state='walk';e.t=.8+Math.random()*.7}}
-    e.x+=e.vx*dt;if(lock&&touchy){const lim=cam+W-RSAFE+40;if(e.x<lim)e.in=1;if(e.in&&e.x>lim){e.x=lim;if(e.vx>0)e.vx=0}}return}
+    else if(e.state==='leap'){if(!e.hitP&&overlap(ebox(e),pbox())){e.hitP=true;hurtPlayer(ETYPES.h.dmg*dm(),e.face*520)}e.vx*=Math.pow(.25,dt);if(e.t<=0){e.state='walk';e.t=.5+Math.random()*.4}}
+    e.x+=e.vx*dt;gateClamp(e);if(lock&&touchy){const lim=cam+W-RSAFE+40;if(e.x<lim)e.in=1;if(e.in&&e.x>lim){e.x=lim;if(e.vx>0)e.vx=0}}return}
   const T=ETYPES[e.type],hv=e.type==='b'||e.type==='B',range=e.type==='B'?240:hv?200:130;
   if(e.state==='walk'){e.face=Math.sign(dx)||1;
     if(ad>range)e.vx+=(e.face*T.spd*(1+G.lv*.05)-e.vx)*Math.min(1,dt*5);else{e.vx*=Math.pow(.01,dt);if(e.t<=0){e.state='wind';e.t=e.type==='B'?.75:hv?.62:.42}}}
@@ -208,7 +211,7 @@ function updEnemy(e,dt){const dx=pl.x-e.x,ad=Math.abs(dx);e.flash-=dt;e.t-=dt;
   else if(e.state==='swing'){if(!e.hitP){const reach=e.type==='B'?270:hv?230:150,box={x:e.face>0?e.x:e.x-reach,y:e.y-e.h,w:reach,h:e.h};
       if(overlap(box,pbox())){e.hitP=true;hurtPlayer(T.dmg*dm(),e.face*(hv?900:450))}}
     if(e.t<=0){e.state='walk';e.t=(e.type==='B'?1.6:hv?1.3:.8)+Math.random()*.7}}
-  e.x+=e.vx*dt;if(e.state!=='walk')e.vx*=Math.pow(.05,dt);
+  e.x+=e.vx*dt;if(e.state!=='walk')e.vx*=Math.pow(.05,dt);gateClamp(e);
   /* once on screen during a wave, ground enemies stay out of the strip under the touch buttons */
   if(lock&&touchy){const lim=cam+W-RSAFE+40;if(e.x<lim)e.in=1;if(e.in&&e.x>lim){e.x=lim;if(e.vx>0)e.vx=0}}
 }

diff --git a/web/p3.js b/web/p3.js
@@ -3,12 +3,12 @@
 /* ---------- boss: Malakar, the Void Sovereign ---------- */
 const arenaCam=()=>LV[G.lv].len-W+120;
 function startBoss(){lock=true;S.boom();shake=16;const ac=arenaCam();
-  boss={isBoss:true,x:ac+W-RSAFE-60,y:GY,w:190,h:330,hp:2400,max:2400,face:-1,state:'enter',t:2.6,flash:0,vx:0,phase:1,dy:-800,hov:0,last:'',fire:0,left:0};
+  boss={isBoss:true,x:ac+W-RSAFE-160,y:GY,w:190,h:330,hp:3600,max:3600,face:-1,state:'enter',t:2.6,flash:0,vx:0,phase:1,dy:-800,hov:0,last:'',fire:0,left:0};
   showBanner('Malakar','The Void Sovereign',2.6)}
-function bclamp(x){return Math.max(cam+220,Math.min(cam+W-RSAFE-20,x))}
+function bclamp(x){return Math.max(cam+220,Math.min(cam+W-RSAFE-110,x))}
 function chooseAttack(b){let o=['dash','barrage','rift'];if(b.phase>=2)o.push('beam','beam','summon');
   o=o.filter(a=>a!==b.last);let a=o[Math.floor(Math.random()*o.length)];if(a==='summon'&&en.length>=2)a='barrage';b.last=a;
-  const k=b.phase===3?.7:1;
+  const k=b.phase===3?.6:.85;
   if(a==='dash'){b.state='dashWind';b.t=.7*k;b.dash2=false;S.warn()}
   else if(a==='barrage'){b.state='barrage';b.left=b.phase>1?16:10;b.fire=0;b.spin=Math.random()*6}
   else if(a==='rift'){b.state='cast';b.t=.6;const xs=[pl.x,pl.x-300,pl.x+300];if(b.phase===3)xs.push(pl.x-600,pl.x+600);
@@ -22,18 +22,18 @@ function updBoss(b,dt){b.flash-=dt;b.t-=dt;
   if(b.state==='enter'){b.dy+=(0-b.dy)*Math.min(1,dt*2.2);if(b.t<=0){b.state='idle';b.t=1;b.dy=0}return}
   b.hov=Math.sin(lvT*2)*16;
   if(b.state!=='dash')b.face=Math.sign(pl.x-b.x)||-1;
-  const k=b.phase===3?.7:1;
+  const k=b.phase===3?.6:.85;
   if(b.state==='idle'){let side=b.x>pl.x?1:-1,tx=bclamp(pl.x+side*520);if(Math.abs(tx-pl.x)<320)tx=bclamp(pl.x-side*520);b.x+=(tx-b.x)*Math.min(1,dt*1.3);if(b.t<=0)chooseAttack(b)}
   else if(b.state==='dashWind'){if(Math.random()<.5)burst(b.x,b.y-160,'#ff3d6e',2,300);if(b.t<=0){b.state='dash';b.t=.95;b.vx=b.face*2000;S.boom();b.hitP=false}}
   else if(b.state==='dash'){b.x+=b.vx*dt;parts.push({x:b.x,y:b.y-150+(Math.random()-.5)*200,vx:-b.vx*.1,vy:0,life:.3,max:.3,col:'#ff3d6e',sz:10,g:0});
-    if(!b.hitP&&overlap(ebox(b),pbox())){b.hitP=true;hurtPlayer(22,b.face*1000)}
-    if(b.t<=0||b.x<cam+180||b.x>cam+W-180){b.x=bclamp(b.x);shake=10;
+    if(!b.hitP&&overlap(ebox(b),pbox())){b.hitP=true;hurtPlayer(28,b.face*1000)}
+    if(b.t<=0||b.x<cam+180||b.x>cam+W-RSAFE-110){b.x=bclamp(b.x);shake=10;
       if(b.phase===3&&!b.dash2){b.dash2=true;b.face*=-1;b.state='dashWind';b.t=.35}else{b.state='idle';b.t=1.1*k}}}
   else if(b.state==='barrage'){b.fire-=dt;if(b.fire<=0){b.fire=.1;b.left--;const a0=Math.atan2(pl.y-90-(b.y-260),pl.x-b.x);
-      const a=a0+Math.sin(b.spin+b.left*.7)*.55;shots.push({x:b.x+b.face*60,y:b.y-260+b.hov,vx:Math.cos(a)*620,vy:Math.sin(a)*620,r:20,dmg:11,life:3.5,col:'#ff3d6e'});S.shot();
+      const a=a0+Math.sin(b.spin+b.left*.7)*.55;shots.push({x:b.x+b.face*60,y:b.y-260+b.hov,vx:Math.cos(a)*620,vy:Math.sin(a)*620,r:20,dmg:14,life:3.5,col:'#ff3d6e'});S.shot();
       if(b.left<=0){b.state='idle';b.t=1.2*k}}}
   else if(b.state==='cast'){if(b.t<=0){b.state='idle';b.t=1*k}}
-  if(b.state!=='dash'&&b.state!=='idle'&&overlap(ebox(b),pbox()))hurtPlayer(8,(pl.x<b.x?-1:1)*800);
+  if(b.state!=='dash'&&b.state!=='idle'&&overlap(ebox(b),pbox()))hurtPlayer(5,(pl.x<b.x?-1:1)*800);
 }
 function killBoss(){const b=boss;b.dead=true;bossDone=true;G.score+=10000;shake=30;S.boom();hz=[];shots=shots.filter(s=>s.friend);
   en.forEach(e=>{e.dead=true;burst(e.x,e.y-e.h/2,'#ff4fd8',20)});en=[];spawnQ=[];
@@ -54,8 +54,8 @@ function updShots(dt){const ab=atkBox();
   shots=shots.filter(s=>s.life>0)}
 function updHz(dt){for(const h of hz){if(h.kind==='quake'){updQuake(h,dt);continue}if(h.t>0){h.t-=dt;if(h.t<=0){S.boom();shake=Math.max(shake,h.kind==='beam'?14:9);if(h.kind==='pillar')burst(h.x,GY,'#ff3d6e',24,900)}continue}
     h.act-=dt;if(h.hitP)continue;const pb=pbox();
-    if(h.kind==='pillar'&&Math.abs(pl.x-h.x)<h.w/2+30){h.hitP=true;hurtPlayer(18,(pl.x<h.x?-1:1)*600)}
-    if(h.kind==='beam'&&pb.y<h.y+38&&pb.y+pb.h>h.y-38){h.hitP=true;hurtPlayer(20,(pl.x<cam+W/2?-1:1)*500)}}
+    if(h.kind==='pillar'&&Math.abs(pl.x-h.x)<h.w/2+30){h.hitP=true;hurtPlayer(22,(pl.x<h.x?-1:1)*600)}
+    if(h.kind==='beam'&&pb.y<h.y+38&&pb.y+pb.h>h.y-38){h.hitP=true;hurtPlayer(26,(pl.x<cam+W/2?-1:1)*500)}}
   hz=hz.filter(h=>h.t>0||h.act>0)}
 function updParts(dt){for(const r of rings)r.life-=dt;rings=rings.filter(r=>r.life>0);for(const q of parts){q.life-=dt;q.vy+=q.g*dt;q.x+=q.vx*dt;q.y+=q.vy*dt;q.vx*=Math.pow(.3,dt)}parts=parts.filter(q=>q.life>0);if(parts.length>600)parts.splice(0,parts.length-600);
   for(const t of texts){t.life-=dt;t.y-=90*dt}texts=texts.filter(t=>t.life>0)}
@@ -112,9 +112,9 @@ function levelComplete(){G.state='card';G.score+=Math.round(pl.hp*20);G.best=Mat
 function gameOver(){G.state='over';if(pl){pl.dead=1;pl.deadT=0;pl.vx=0}G.best=Math.max(G.best,G.score);saveProg();padShow(false);clearInput();setTimeout(()=>showCard({ey:'Tyko is down',h:'The Light Fades',
   b:`<p><span class="who">LYRA:</span> "Not yet, little one. Get up. I won't let the dark have you."</p>`,btns:[...(G.ck&&G.ck.lv===G.lv?[['Continue from save station',restoreCk]]:[]),['Retry chapter',()=>{G.score=G.chapterStart;G.lives=3;G.ck=null;startLevel(G.lv)},1],['Title',toTitle,1]]}),900)}
 function victory(){G.state='card';padShow(false);clearInput();G.score+=Math.round(pl.hp*50);unlocked=6;saveProg();G.best=Math.max(G.best,G.score);
-  story(STORY.ending,0,()=>showCard({ey:'The saga is complete',h:'Ithra Is Free',big:0,b:`<p>Final score <b>${G.score.toLocaleString()}</b></p><p>Thank you for playing Aetherfall.</p>`,btns:[['Play again',()=>{G.score=0;G.lives=3;briefing(0)}],['Title',toTitle,1]]}))}
+  story(STORY.ending,0,()=>showCard({ey:'The saga is complete',h:'Ithra Is Free',big:0,b:`<p>Final score <b>${G.score.toLocaleString()}</b></p><p>Thank you for playing Aetherfall.</p>`,btns:[['Play again',()=>{G.score=0;G.lives=3;G.ck=null;META={ab:{},tanks:{}};saveMeta();briefing(0)}],['Title',toTitle,1]]}))}
 function togglePause(){if(G.state!=='play')return;G.paused=!G.paused;clearInput();
-  if(G.paused){padShow(false);showCard({ey:LV[G.lv].ch,h:'Paused',extra:abilitiesHTML(),btns:[['Resume',togglePause],['Restart chapter',()=>{G.score=G.chapterStart;startLevel(G.lv)},1],['Quit to title',toTitle,1]]})}
+  if(G.paused){padShow(false);showCard({ey:LV[G.lv].ch,h:'Paused',extra:abilitiesHTML(),btns:[['Resume',togglePause],['Restart chapter',()=>{G.score=G.chapterStart;G.lives=3;G.ck=null;startLevel(G.lv)},1],['Quit to title',toTitle,1]]})}
   else{hideCard();padShow(true)}}
 document.getElementById('pauseBtn').addEventListener('pointerdown',e=>{e.preventDefault();togglePause()});
 function goFull(){try{const d=document.documentElement;if(touchy&&!document.fullscreenElement&&d.requestFullscreen)d.requestFullscreen().then(()=>{try{screen.orientation.lock('landscape').catch(()=>{})}catch(_){}}).catch(()=>{})}catch(e){}}

diff --git a/web/p8.js b/web/p8.js
@@ -28,7 +28,7 @@ function buildGeo(L,i){const r=rng(L.len*41+i*7+3),g={plats:[],gates:[],cages:[]
   let x=760;while(x<L.len-600){if(clear(x)){const tiers=1+Math.floor(r()*3);let px=x;
       for(let t=0;t<tiers;t++){const w=240+Math.floor(r()*3)*80;g.plats.push({x:Math.round(px),y:GY-190-t*170,w});px+=(r()<.5?-1:1)*(130+r()*70)}}
     x+=700+r()*600}
-  if(i<5){g.shrine={x:sx,ab:ABIL[i].id};g.gates.push(mkGate(ABIL[i].gate,gx))}
+  if(i<5){g.shrine={x:sx,ab:ABIL[i].id};g.gates.push(mkGate(ABIL[i].gate,gx));if(ABIL[i].gate==='laser')picks.push({x:gx-320,y:GY-80,type:'shard',float:1},{x:gx-420,y:GY-80,type:'shard',float:1})}
   TD.forEach((kind,k)=>{const id=i+'-'+k,t=tx[k];if(META.tanks[id])return;
     if(kind==='high'){const py=GY-410;g.plats.push({x:t-130,y:py,w:260,iso:1});picks.push({x:t,y:py-70,type:'tank',id,float:1})}
     else{const c={x:t,kind,hp:kind==='plasma'?3:1,broken:0};g.cages.push(c);picks.push({x:t,y:GY-80,type:'tank',id,float:1,cage:c})}});
@@ -55,8 +55,8 @@ function updGeo(dt){const p=pl;hintT-=dt;if(!p||p.dead)return;p.maxX=Math.max(p.
   if(p.dashT>0){const b={x:p.x-80,y:p.y-170,w:160,h:170};for(const g of GEO.gates)if(!g.broken&&g.kind==='crack'&&overlap(b,{x:g.x-g.w/2,y:g.top,w:g.w,h:GY-g.top}))breakGate(g);
     for(const c of GEO.cages)if(!c.broken&&c.kind==='crack'&&Math.abs(c.x-p.x)<110&&p.y>GY-200)breakCage(c)}
   for(const s of shots)if(s.friend&&s.wave){for(const g of GEO.gates)if(!g.broken&&g.kind==='laser'&&Math.abs(s.x-g.x)<s.r+40)breakGate(g);for(const c of GEO.cages)if(!c.broken&&c.kind==='laser'&&Math.abs(s.x-c.x)<s.r+60)breakCage(c)}
-  const sh=GEO.shrine;if(sh&&!hasAb(sh.ab)&&Math.abs(p.x-sh.x)<80&&p.y>GY-200)grantAbility(sh.ab);
-  for(const st of GEO.stations){st.t-=dt;if(st.t<=0&&Math.abs(p.x-st.x)<70&&p.ground&&p.y>GY-4)useStation(st)}}
+  const sh=GEO.shrine;if(sh&&!hasAb(sh.ab)&&Math.abs(p.x-sh.x)<90)grantAbility(sh.ab);
+  for(const st of GEO.stations){st.t-=dt;if(!lock&&st.t<=0&&Math.abs(p.x-st.x)<70&&p.ground&&p.y>GY-4)useStation(st)}}
 function clawGeo(box){for(const g of GEO.gates)if(!g.broken&&g.kind==='crystal'&&overlap(box,{x:g.x-g.w/2,y:0,w:g.w,h:GY})){if(hasAb('plasma')){g.hp--;burst(g.x,box.y+80,'#ff5ad8',10,500);S.hit();if(g.hp<=0)breakGate(g)}else if(hintT<=0){hintT=2.5;ftext(g.x,GY-300,GATEHINT.crystal,'#ffd27a')}}
   for(const c of GEO.cages)if(!c.broken&&c.kind==='plasma'&&overlap(box,{x:c.x-70,y:GY-170,w:140,h:170})){if(hasAb('plasma')){c.hp--;S.hit();burst(c.x,GY-90,'#ff5ad8',8,400);if(c.hp<=0)breakCage(c)}else if(hintT<=0){hintT=2.5;ftext(c.x,GY-230,'Void crystal. Claws bounce off it.','#ffd27a')}}}
 function slamAt(x){for(const g of GEO.gates)if(!g.broken&&g.kind==='blast'&&Math.abs(x-g.plate)<170)breakGate(g);for(const c of GEO.cages)if(!c.broken&&c.kind==='slam'&&Math.abs(x-c.x)<220)breakCage(c)}
@@ -67,9 +67,9 @@ function slamLand(p,y){p.slam=0;shake=Math.max(shake,14);S.boom();buzz(35);ring(
 function grantAbility(id){const A=ABIL.find(a=>a.id===id);META.ab[id]=1;saveMeta();hitStop=.45;shake=10;buzz([40,30,80]);
   [523,659,784,1047].forEach((f,i)=>setTimeout(()=>sfx(f,.35,'triangle',.07,0),i*120));
   for(let i=0;i<3;i++)ring(pl.x,pl.y-100,A.col,180+i*90);burst(pl.x,pl.y-100,A.col,40,900);showBanner(A.name+' acquired',A.how,4.2);padAbilities()}
-function useStation(st){st.t=6;const p=pl;p.hp=p.max;p.en=Math.max(p.en,50);G.ck={lv:G.lv,x:st.x,waveI,score:G.score,broken:GEO.gates.map(g=>g.broken),cages:GEO.cages.map(c=>c.broken)};
+function useStation(st){st.t=6;const p=pl;p.hp=p.max;p.en=Math.max(p.en,50);G.ck={lv:G.lv,x:st.x,waveI,score:G.score,cs:G.chapterStart,broken:GEO.gates.map(g=>g.broken),cages:GEO.cages.map(c=>c.broken)};
   sfx(660,.3,'sine',.06,330);setTimeout(()=>sfx(990,.3,'sine',.06,0),150);ring(st.x,GY-110,'#7dffb0',200);showBanner('Progress saved','Health restored',1.6)}
-function restoreCk(){const ck=G.ck;G.lives=3;startLevel(ck.lv);G.score=ck.score;waveI=ck.waveI;pl.x=ck.x+80;pl.maxX=ck.x;
+function restoreCk(){const ck=G.ck;G.lives=3;startLevel(ck.lv);G.score=ck.score;G.chapterStart=ck.cs!=null?ck.cs:G.chapterStart;waveI=ck.waveI;pl.x=ck.x+80;pl.maxX=ck.x;
   GEO.gates.forEach((g,i)=>g.broken=ck.broken[i]||g.broken);GEO.cages.forEach((c,i)=>c.broken=ck.cages[i]||c.broken);
   cam=Math.max(0,Math.min(arenaCam(),pl.x-W*.38));showBanner('Save station',LV[ck.lv].name,1.8)}
 function padAbilities(){const d=document.querySelector('.act.dsh'),s=document.querySelector('.act.sp');if(d)d.hidden=!hasAb('dash');if(s)s.hidden=!hasAb('roar')}

diff --git a/web/p9b.js b/web/p9b.js
@@ -30,10 +30,10 @@ function drawClaw(e){const sc=.74;shadow(e.x,50);X.save();X.translate(e.x,e.y);X
   hitFlash(e,e.x,e.y-110,100);bar(e,e.y-262)}
 function drawGorilla(e){const sc=.72;shadow(e.x,84);X.save();X.translate(e.x,e.y);X.scale(e.face*sc,sc);
   const mv=e.state==='walk'?Math.min(1,Math.abs(e.vx)/120):0,sw=Math.sin(lvT*6+e.seed)*.45*mv,hip=-134+(e.state==='wind'?12:e.state==='swing'?18:0),lean=e.state==='wind'?.05:.32;
-  let ua=.12+sw*.5,fa=.2;if(e.state==='wind'){ua=2.9;fa=.3}else if(e.state==='swing'){ua=-.55;fa=-.45}
+  let ua=.12+sw*.5,fa=.2;if(e.state==='wind'){ua=3.05;fa=.15}else if(e.state==='swing'){ua=-.55;fa=-.45}
   const leg=(a1,a2,d)=>{X.save();X.translate(d?-26:26,hip);X.rotate(a1);rp('go_thigh',0,0,0,d);X.translate(0,52);X.rotate(a2);rp('go_shin',0,0,0,d);X.translate(0,58);X.rotate(-(a1+a2));rp('go_foot',0,0,0,d);X.restore()};
   const arm=(d,u,f)=>{X.save();X.translate(0,hip);X.rotate(lean);X.translate(d?-34:54,-124);X.rotate(u-lean);rp('go_uarm',0,0,0,d);X.translate(0,78);X.rotate(f);rp('go_farm',0,0,0,d);X.restore()};
-  arm(1,e.state==='walk'?.12-sw*.5:ua,fa);leg(-sw,.2+Math.max(0,sw)*.8,1);
+  arm(1,e.state==='walk'?.12-sw*.5:e.state==='wind'?2.55:ua,e.state==='wind'?.55:fa);leg(-sw,.2+Math.max(0,sw)*.8,1);
   X.save();X.translate(0,hip);X.rotate(lean);rp('go_torso',0,0,0,0);rp('go_head',46,-150,0,0);X.restore();
   leg(sw,.2+Math.max(0,-sw)*.8,0);arm(0,ua,fa);X.restore();
   glow(e.x+e.face*70,e.y-262,26,'#ff3a2a',.7);if(e.state==='wind'){glow(e.x,e.y-300,90,'#ff3a2a',.4+.3*Math.sin(lvT*30));warnMark(e,e.y-330)}
